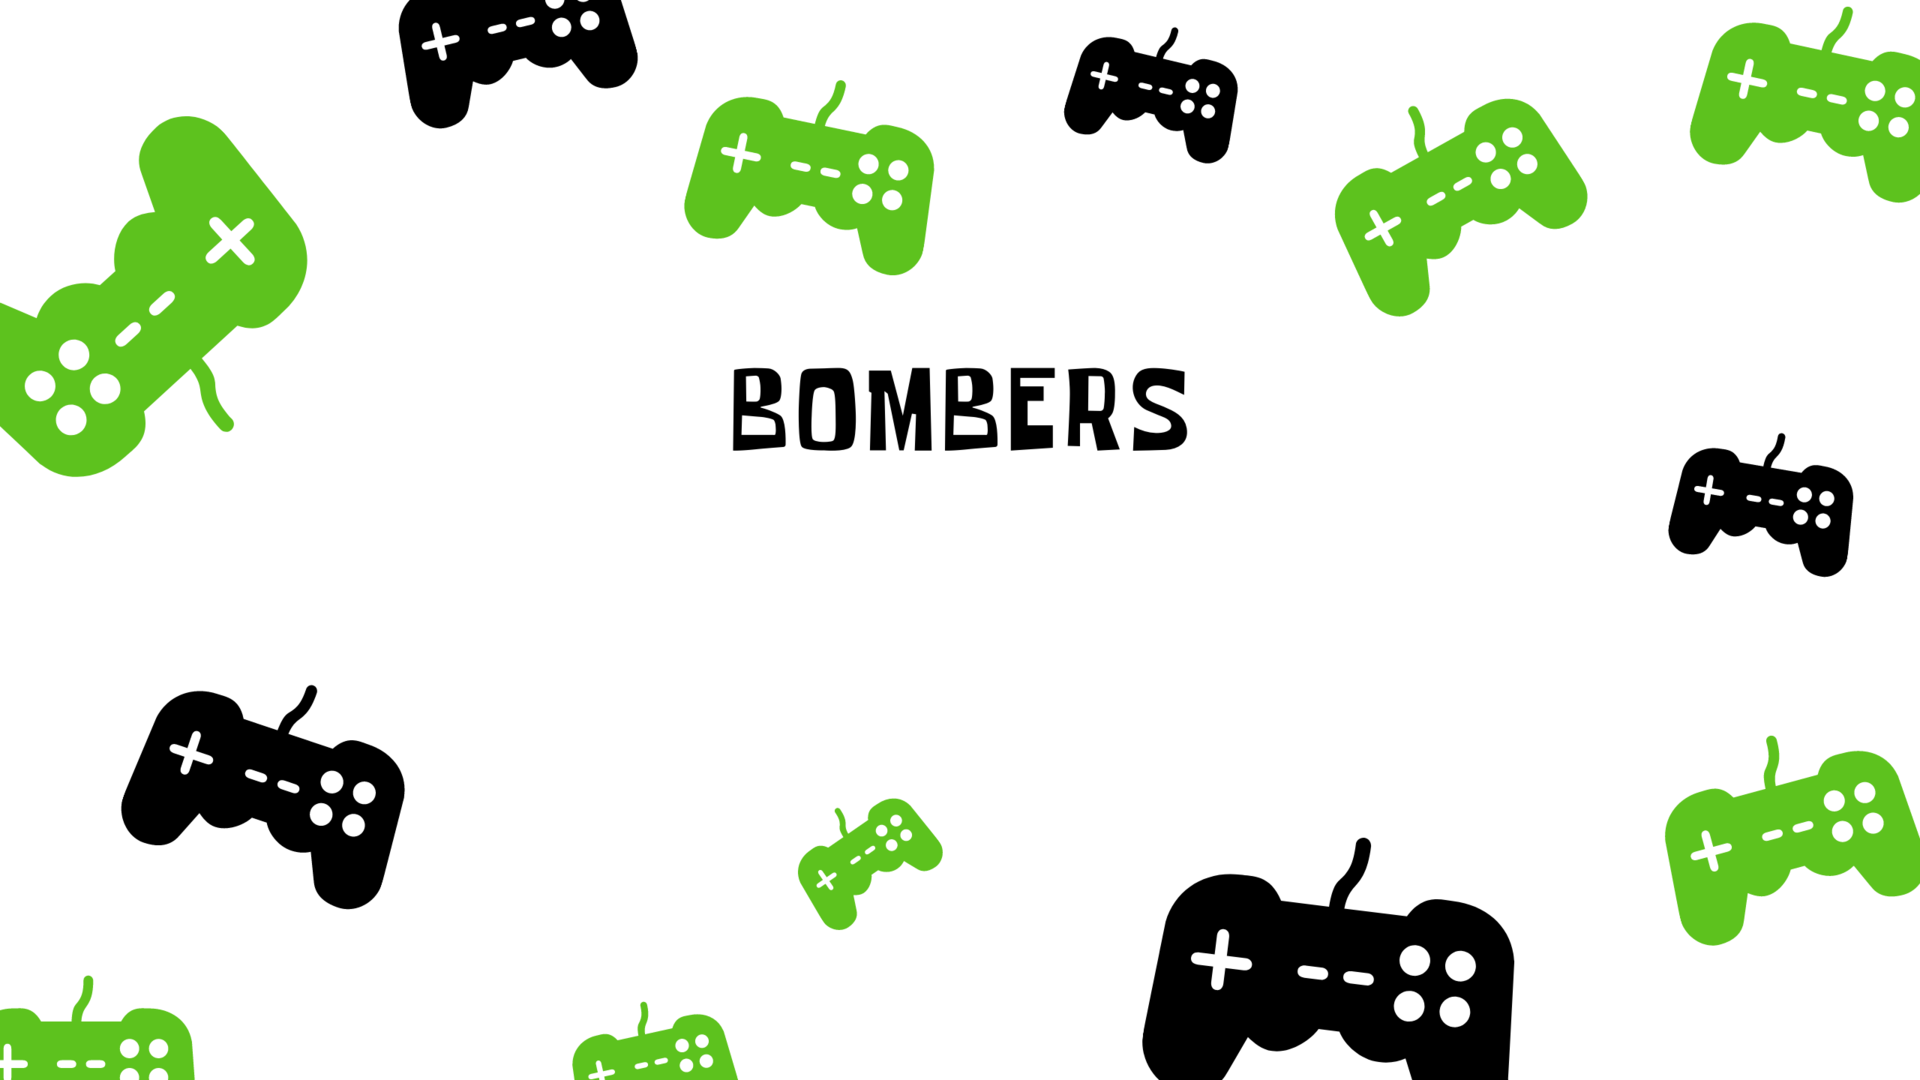
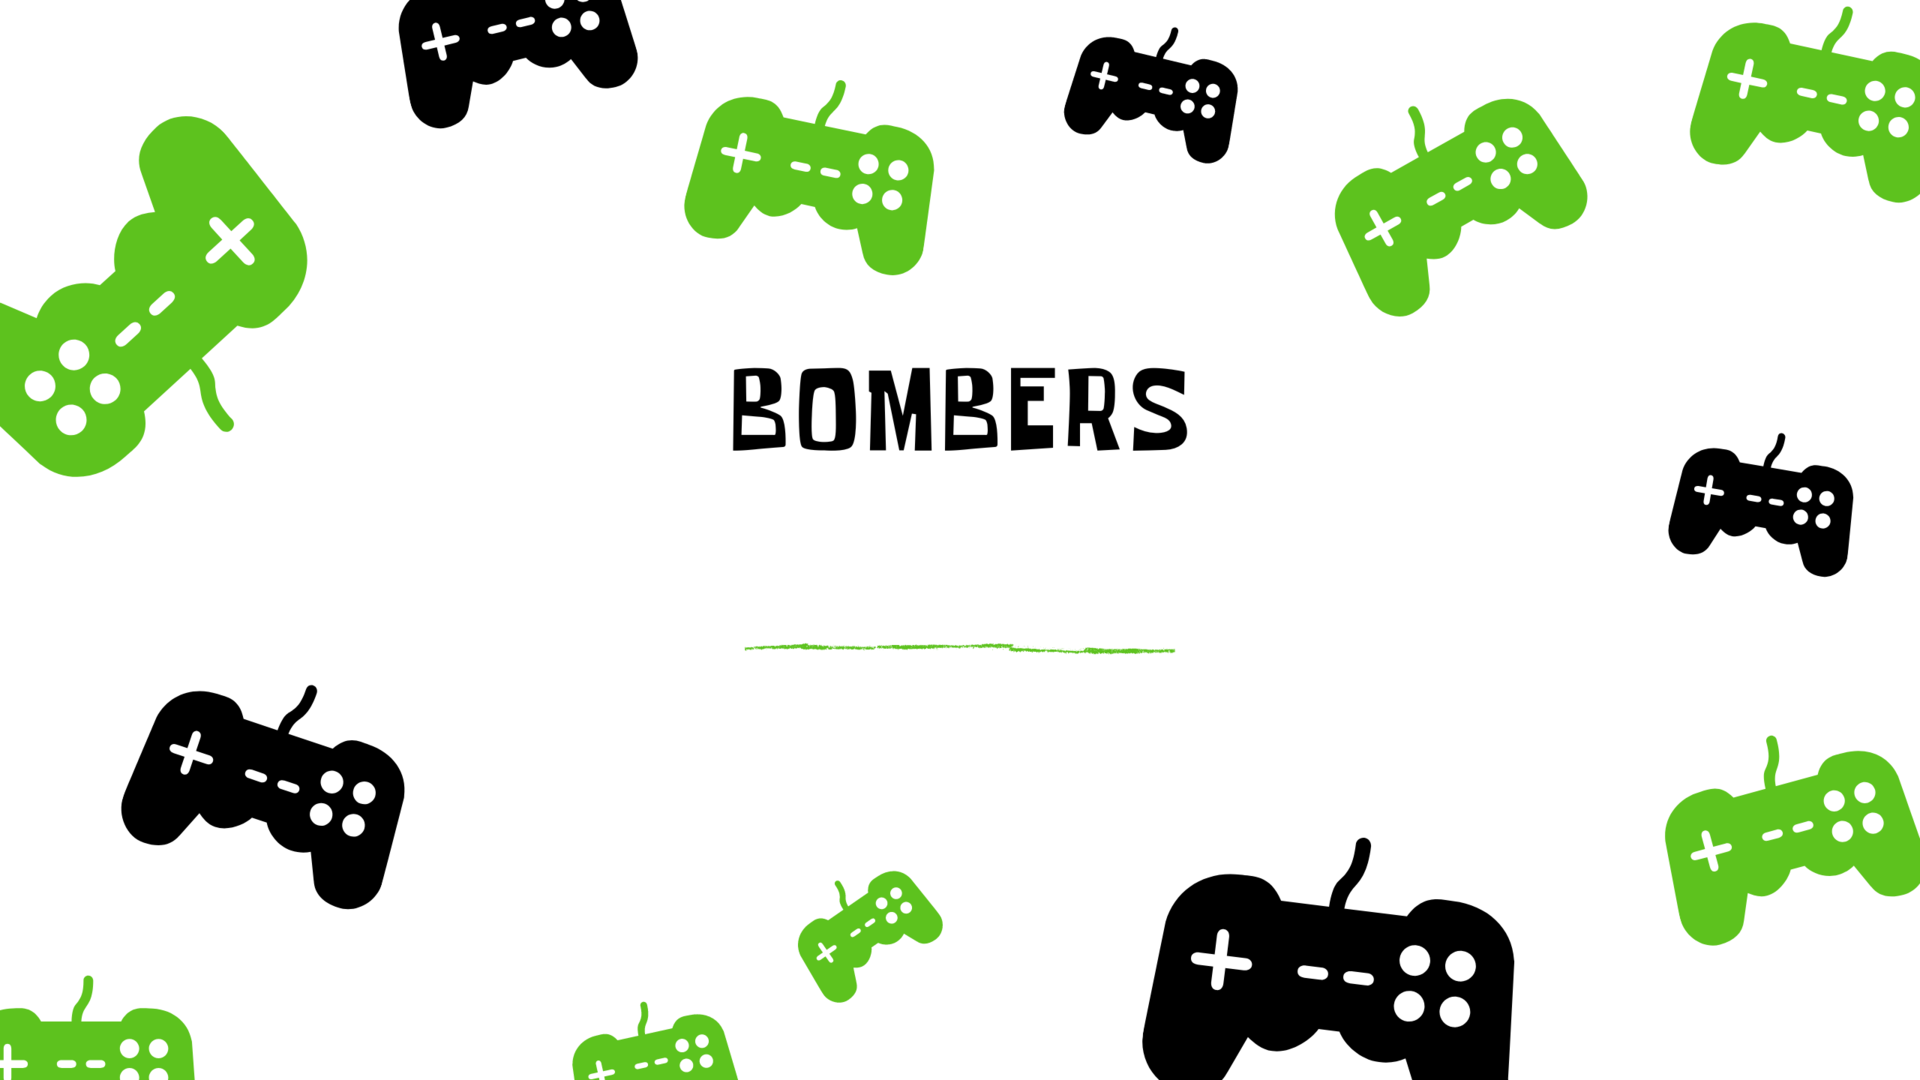
New menu

Changed region(s): [[0.4062, 0.7333, 0.5, 0.9167], [0.4062, 0.5806, 0.5938, 0.6111]]

diff --git a/src/main/resources/css/button.css b/src/main/resources/css/button.css
@@ -1,5 +1,5 @@
 #mainButton {
-    -fx-background-image: url("/img/but0.png");
+    -fx-background-image: url("/img/create_lobby.png");
 }
 
 #rightButton {
@@ -28,4 +28,8 @@
 
 #readyButton {
     -fx-background-image: url("/img/done.png");
+}
+
+#enter_lobby{
+    -fx-background-image: url("/img/enter_lobby.png");
 }

diff --git a/target/classes/css/button.css b/target/classes/css/button.css
@@ -1,5 +1,5 @@
 #mainButton {
-    -fx-background-image: url("/img/but0.png");
+    -fx-background-image: url("/img/create_lobby.png");
 }
 
 #rightButton {
@@ -28,4 +28,8 @@
 
 #readyButton {
     -fx-background-image: url("/img/done.png");
+}
+
+#enter_lobby{
+    -fx-background-image: url("/img/enter_lobby.png");
 }

diff --git a/src/main/java/controller/MainController.java b/src/main/java/controller/MainController.java
@@ -40,6 +40,9 @@ public class MainController implements Initializable {
     public Button mainButton;
 
     @FXML
+    public Button  enter_lobby;
+
+    @FXML
     private Button rightButton;
 
     @FXML
@@ -56,6 +59,9 @@ public class MainController implements Initializable {
 
     @FXML
     private HBox MapH;
+
+    @FXML
+    private VBox lobby;
 
     @FXML
     private ImageView bg;
@@ -85,6 +91,7 @@ public class MainController implements Initializable {
     public void pressStartButton(ActionEvent event) throws Exception {
         bg.setImage(new Image(new FileInputStream("src/main/resources/img/bg2.png")));
         mainButton.setVisible(false);
+        enter_lobby.setVisible(false);
         CatV.setVisible(true);
     }
 
@@ -177,6 +184,8 @@ public class MainController implements Initializable {
         MapV.setVisible(false);
         MapV.setSpacing(50);
         MapH.setSpacing(200);
+        lobby.setVisible(true);
+        lobby.setSpacing(10);
 
         try {
             cur_image = "src/main/resources/img/cat/fat1.png";
